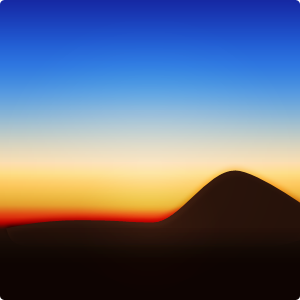
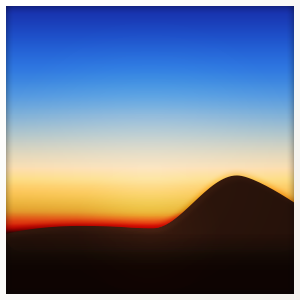
替换某些应用默认图片；修改详情图片显示方式

Changed region(s): [[0.0, 0.0, 1.0, 1.0]]

diff --git a/src/com/ireadygo/app/gamelauncher/ui/detail/ScreenPictureActivity.java b/src/com/ireadygo/app/gamelauncher/ui/detail/ScreenPictureActivity.java
@@ -41,7 +41,7 @@ public class ScreenPictureActivity extends BaseActivity {
 			mImageLoader = GameLauncher.instance().getGameInfoHub().getImageLoader();
 			for (int i = 0; i < appEntity.getSceenshotUrlList().size(); i++) {
 				final ImageView imageView = new ImageView(this);
-				imageView.setScaleType(ScaleType.CENTER_INSIDE);
+				imageView.setScaleType(ScaleType.FIT_CENTER);
 				mImageLoader.displayImage(appEntity.getSceenshotUrlList().get(i), imageView,
 						new ImageLoadingListener() {
 
